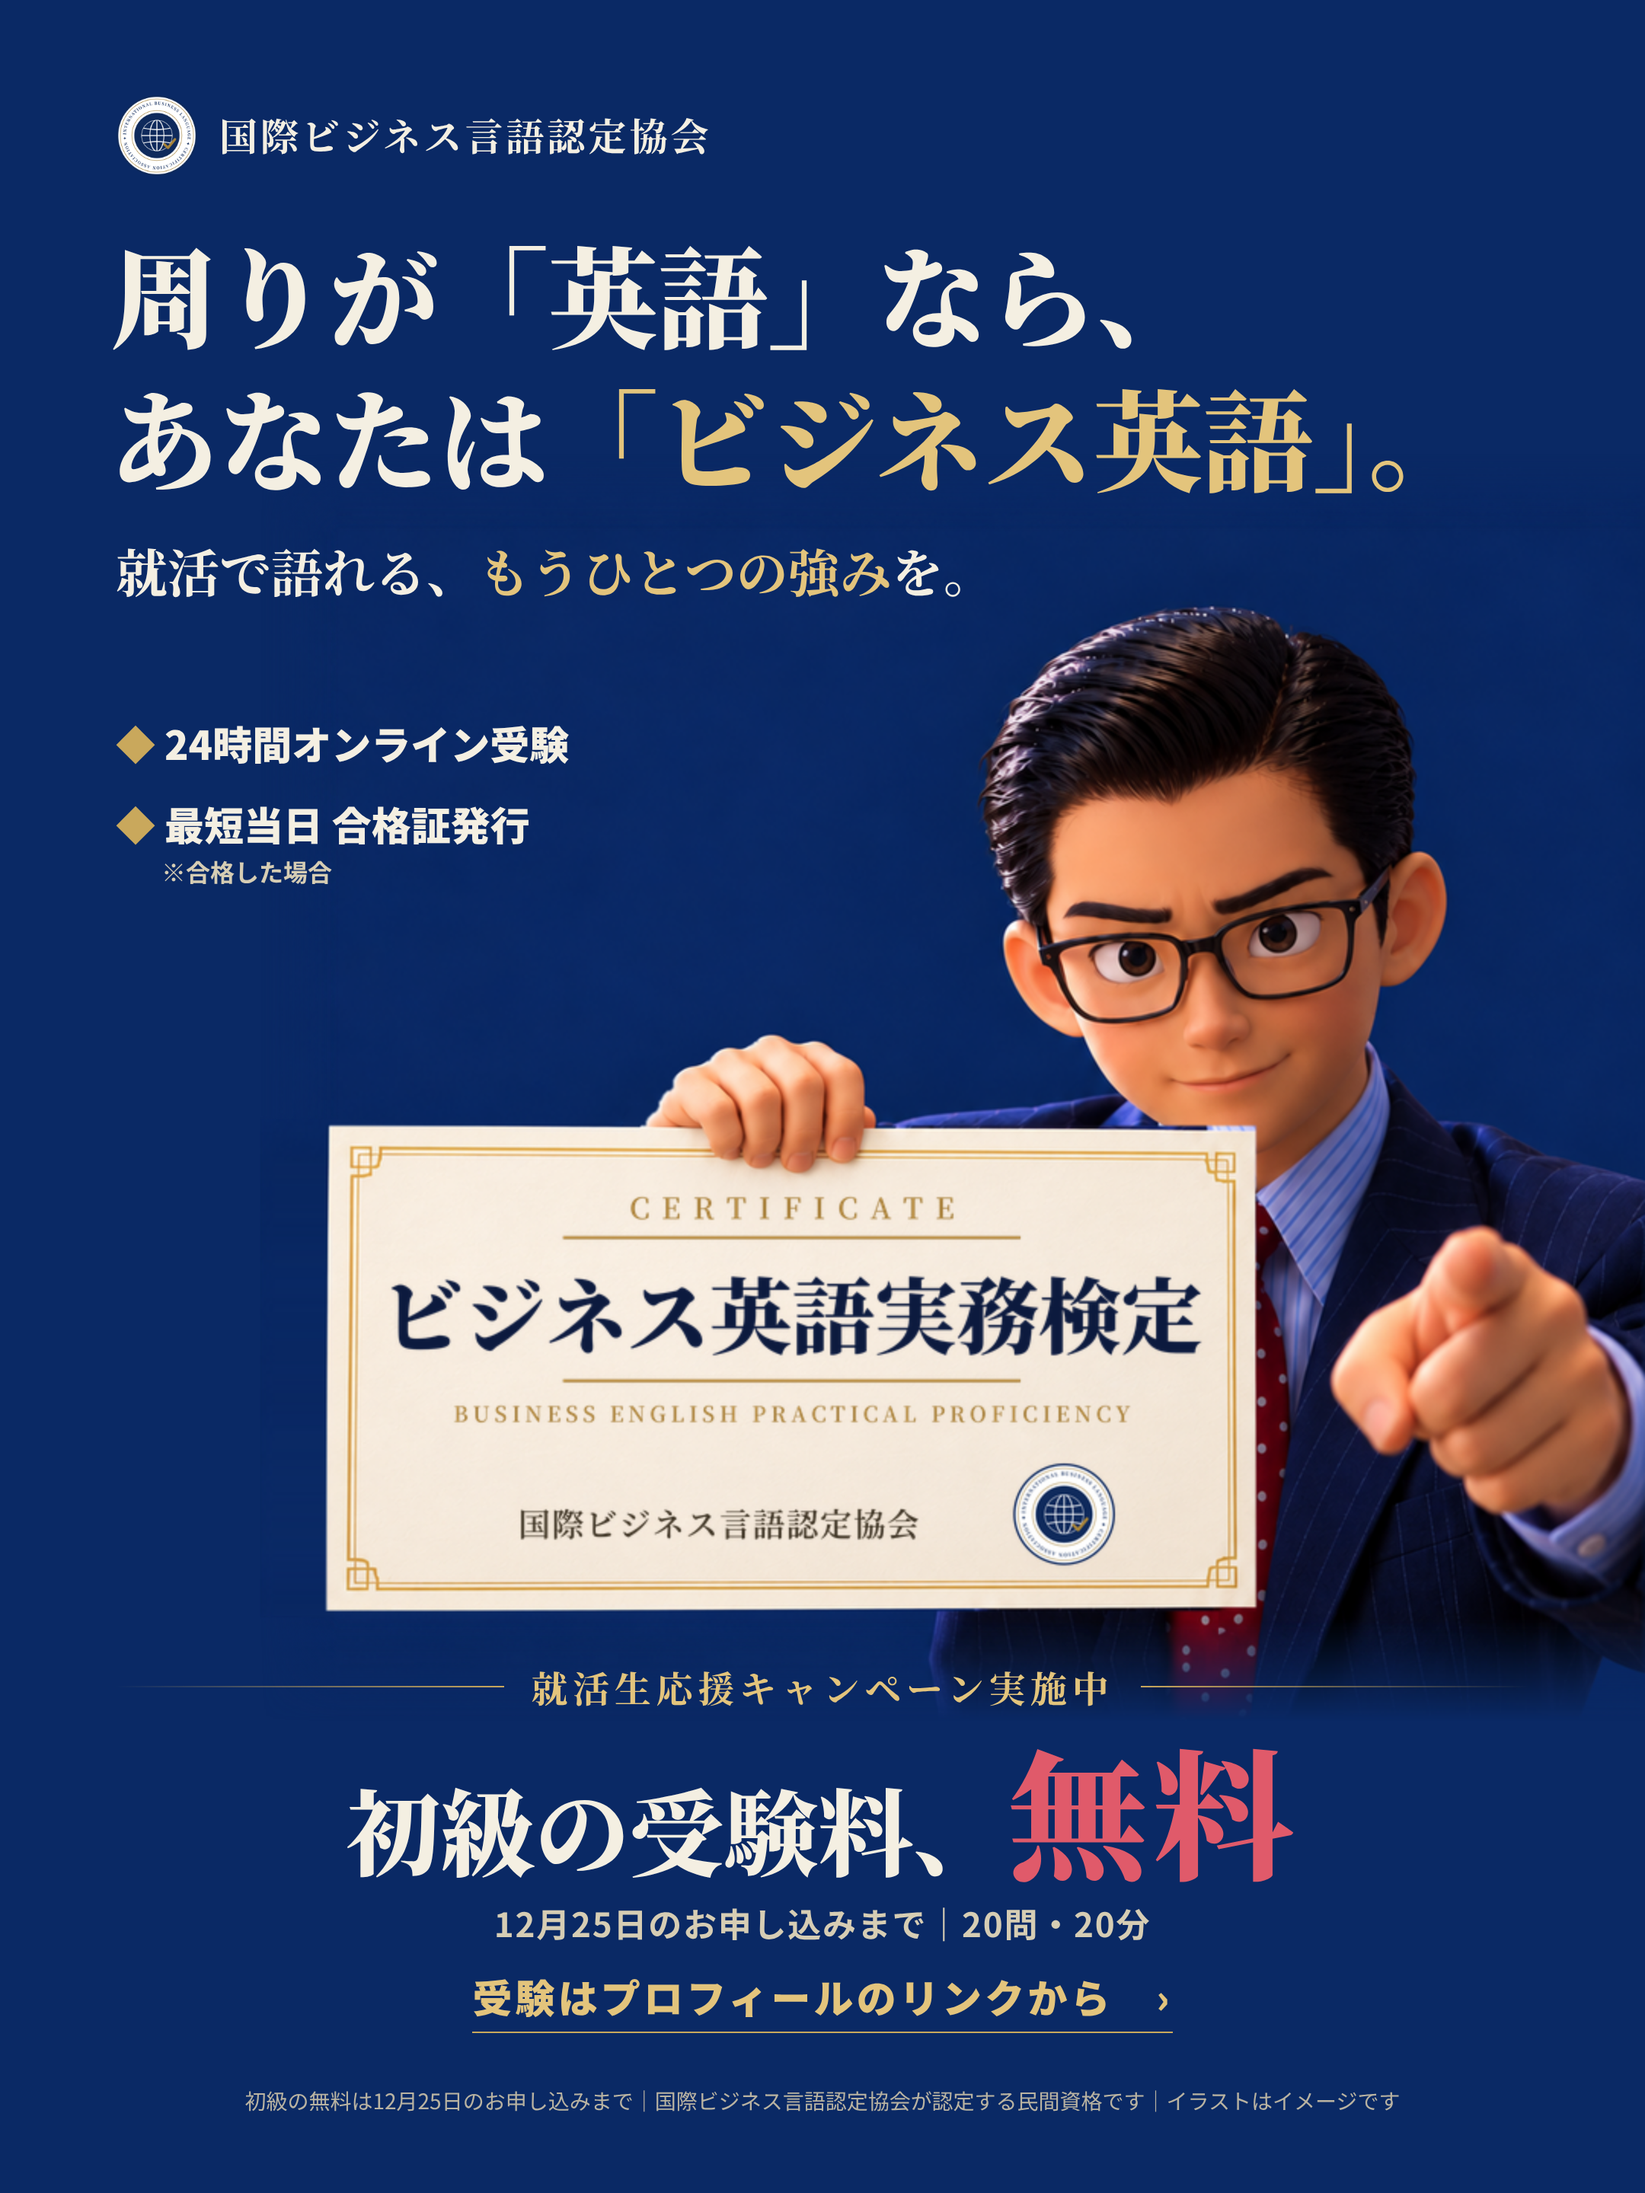
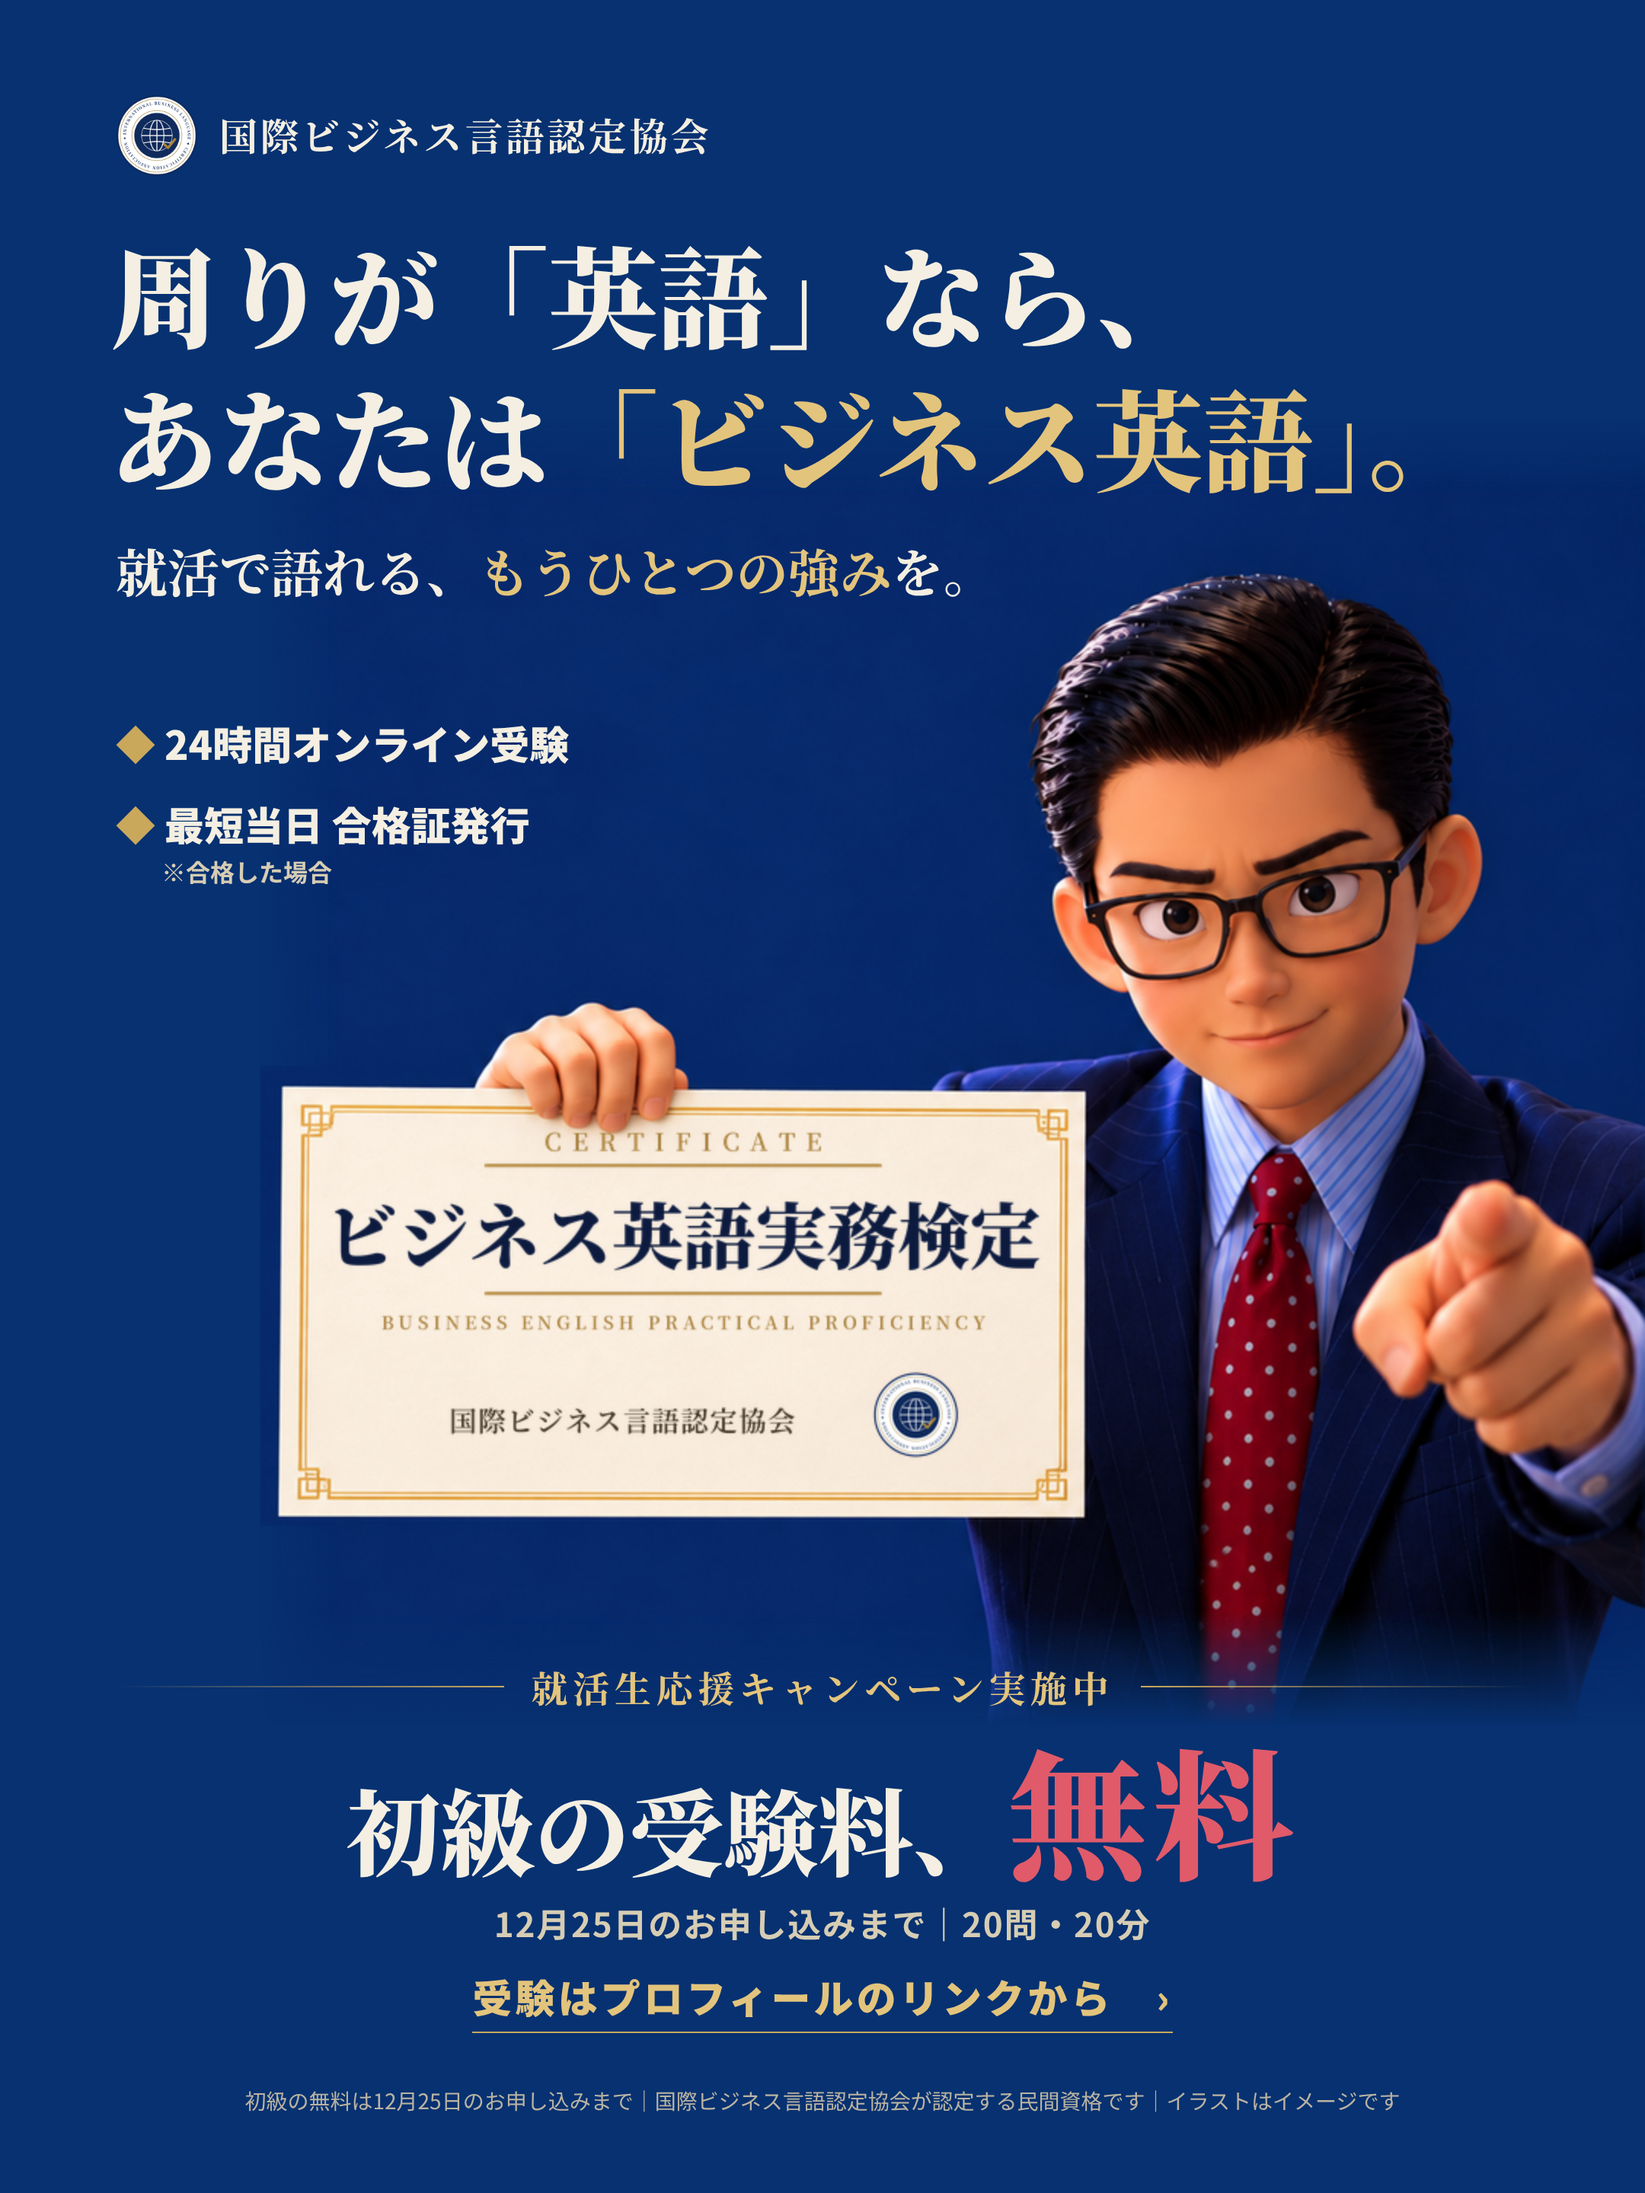
インスタ固定投稿用 v26：新しい絵で（決定版）
Claude-Session: https://claude.ai/code/session_014p5jL2LKN9C3tYKst8GaL5

Changed region(s): [[0.1551, 0.25, 1.0, 0.7812]]

diff --git a/content/posters/ig_v26.html b/content/posters/ig_v26.html
@@ -1,0 +1,45 @@
+<!doctype html><html><head><meta charset="utf-8"><style>
+*{margin:0;padding:0;box-sizing:border-box}
+html,body{width:1080px;height:1440px;overflow:hidden}
+body{font-family:"Noto Sans CJK JP",sans-serif;color:#f4efe2;-webkit-font-smoothing:antialiased;background:#073171;position:relative}
+.frame{position:absolute;left:26px;top:26px;right:26px;bottom:26px;border:1.5px solid rgba(201,168,92,.5);z-index:5}
+.brand{position:absolute;left:76px;top:62px;display:flex;align-items:center;gap:14px;z-index:4}
+.brand img{width:54px;height:54px}
+.brand .n{font-family:"Noto Serif CJK JP",serif;font-weight:700;font-size:25px;letter-spacing:.08em}
+.head{position:absolute;z-index:4;left:72px;right:60px;top:146px;font-family:"Noto Serif CJK JP",serif;font-weight:900;font-size:72px;line-height:1.3}
+.head em{font-style:normal;color:#e3c47c}
+.sub{position:absolute;z-index:4;left:76px;top:350px;font-family:"Noto Serif CJK JP",serif;font-weight:700;font-size:34px}
+.sub em{font-style:normal;color:#e3c47c}
+.ken{position:absolute;left:0;top:0;width:1080px;z-index:1}
+.fadeb{position:absolute;left:0;right:0;top:1060px;height:80px;background:linear-gradient(180deg,rgba(14,40,92,0),#0e285c 75%);z-index:2}
+.chips{position:absolute;z-index:4;left:76px;top:470px;display:flex;flex-direction:column;gap:16px;font-weight:900;font-size:26px;color:#f4efe2}.chips small{display:block;margin-left:30px!important;font-size:16px!important;color:#d6cdb4}
+.chips span:before{content:"◆ ";color:#c9a85c}.chips small{font-size:14px;font-weight:700;margin-left:4px}
+.cta{position:absolute;z-index:4;left:76px;right:76px;top:1100px;background:linear-gradient(90deg,#c9a85c,#e8cd8a);color:#0a1838;text-align:center;padding:14px 12px 16px}
+.cta .t{display:inline-block;background:#b4233a;color:#fff;font-weight:900;font-size:20px;letter-spacing:.1em;padding:3px 14px}
+.cta .nm{margin-top:4px;font-family:"Noto Serif CJK JP",serif;font-weight:900;font-size:52px;line-height:1.15;letter-spacing:.04em}
+.cta .nm:after{content:"";display:block;width:460px;height:1.5px;background:rgba(10,24,56,.45);margin:6px auto 2px}
+.cta .a{margin-top:10px;font-family:"Noto Serif CJK JP",serif;font-weight:900;font-size:54px;line-height:1.2}
+.cta .a b{font-size:76px;color:#b4233a}
+.cta .b{margin-top:12px;font-weight:900;font-size:24px}
+.cta .b span{display:inline-block;background:#0a1838;color:#e3c47c;padding:4px 14px;margin-left:10px;font-size:20px;letter-spacing:.06em}
+.note{position:absolute;z-index:4;left:0;right:0;top:1370px;text-align:center;font-size:14px;color:#b9b3a2}
+
+.camp{position:absolute;z-index:4;left:76px;right:76px;top:1090px;text-align:center}
+.camp .t{display:flex;align-items:center;gap:18px;justify-content:center}
+.camp .t:before,.camp .t:after{content:"";flex:1;height:1.5px;background:linear-gradient(90deg,rgba(201,168,92,0),#c9a85c)}
+.camp .t:after{background:linear-gradient(90deg,#c9a85c,rgba(201,168,92,0))}
+.camp .t span{font-family:"Noto Serif CJK JP",serif;font-weight:700;font-size:24px;letter-spacing:.14em;color:#e3c47c}
+.camp .a{margin-top:8px;font-family:"Noto Serif CJK JP",serif;font-weight:900;font-size:62px;line-height:1.2;color:#f4efe2}
+.camp .a b{font-size:92px;color:#e05a6a;letter-spacing:.04em}
+.camp .b{margin-top:4px;font-size:22px;font-weight:700;color:#d6cdb4;letter-spacing:.04em}
+.camp .c{margin-top:14px;display:inline-block;font-weight:900;font-size:26px;color:#e3c47c;letter-spacing:.08em;border-bottom:1.5px solid #c9a85c;padding-bottom:4px}
+</style></head><body>
+
+<img class="ken" src="ken_layer26.png">
+<div class="brand"><img src="logo.png"><div class="n">国際ビジネス言語認定協会</div></div>
+<div class="head">周りが「英語」なら、<br>あなたは<em>「ビジネス英語」。</em></div>
+<div class="sub">就活で語れる、<em>もうひとつの強み</em>を。</div>
+<div class="chips"><span>24時間オンライン受験</span><span>最短当日 合格証発行<small>※合格した場合</small></span></div>
+<div class="camp"><div class="t"><span>就活生応援キャンペーン実施中</span></div><div class="a">初級の受験料、<b>無料</b></div><div class="b">12月25日のお申し込みまで｜20問・20分</div><div class="c">受験はプロフィールのリンクから　›</div></div>
+<div class="note">初級の無料は12月25日のお申し込みまで｜国際ビジネス言語認定協会が認定する民間資格です｜イラストはイメージです</div>
+</body></html>

diff --git a/log/posted.md b/log/posted.md
@@ -106,3 +106,4 @@
 - 2026-10-29 作成｜Instagram 固定投稿用 v23（決定版に差し替え）｜オーナーが ChatGPT で作り直した横長の合格証の絵を使用｜未投稿
 - 2026-10-29 作成｜Instagram 固定投稿用 v24 2案（金の箱をやめた版）｜A：IG_固定投稿_v24A_箱なし.jpg（金の線と文字だけでキャンペーン）／B：IG_固定投稿_v24B_赤い丸.jpg（赤い丸のハンコ風「初級の受験料 無料」）｜未投稿
 - 2026-10-29 作成｜Instagram 固定投稿用 v25（決定版に差し替え）｜v24A をもとに、合格証を右上へ移動・外側の金の枠線を削除｜未投稿（オーナーが自分で投稿）
+- 2026-10-29 作成｜Instagram 固定投稿用 v26（決定版に差し替え）｜オーナーが作り直した絵（合格証が右上寄り）で作成、外枠なし｜未投稿（オーナーが自分で投稿）
